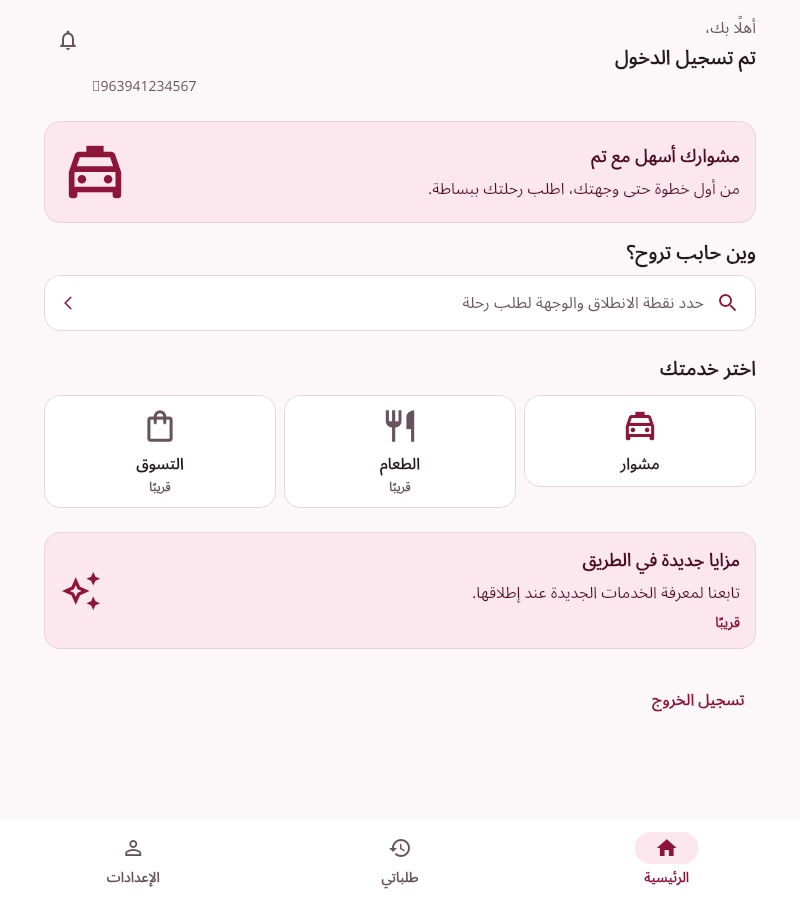
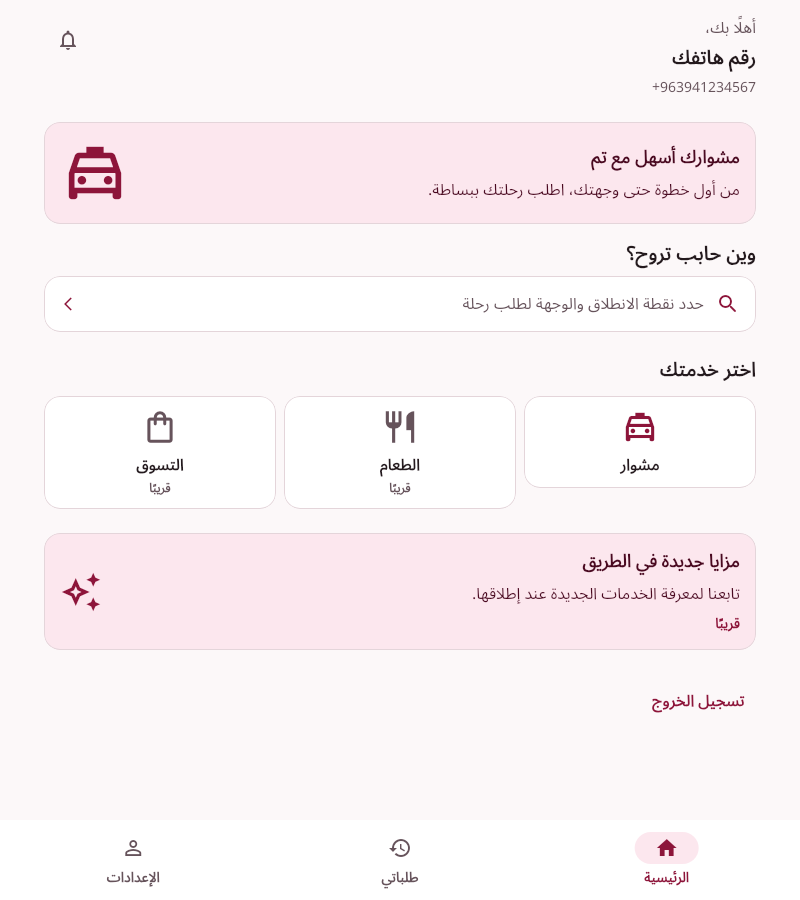
fix(home): address contract, lifecycle and RTL review findings [skip ci]

diff --git a/apps/customer/test/features/home/home_entry_integration_test.dart b/apps/customer/test/features/home/home_entry_integration_test.dart
@@ -1,0 +1,70 @@
+import 'package:flutter/material.dart';
+import 'package:flutter_bloc/flutter_bloc.dart';
+import 'package:flutter_test/flutter_test.dart';
+import 'package:go_router/go_router.dart';
+import 'package:tam_customer/app/app.dart';
+import 'package:tam_customer/app/router/app_routes.dart';
+import 'package:tam_customer/features/auth/data/memory_auth_session_store.dart';
+import 'package:tam_customer/features/auth/presentation/bloc/auth_cubit.dart';
+import 'package:tam_customer/features/auth/presentation/pages/phone_auth_page.dart';
+import 'package:tam_customer/features/home/presentation/pages/home_page.dart';
+
+import '../../support/fake_auth_repository.dart';
+
+void main() {
+  testWidgets(
+    'real Home entry opens registered routes and retains local Auth',
+    (tester) async {
+      final store = MemoryAuthSessionStore();
+      await tester.pumpWidget(
+        TamApp(
+          authRepository: FakeAuthRepository(latency: Duration.zero),
+          sessionStore: store,
+          temporaryPhoneEntryEnabled: true,
+        ),
+      );
+      await tester.pumpAndSettle();
+      await tester.enterText(find.byKey(const Key('auth-phone')), '0941234567');
+      await tester.tap(find.text('متابعة'));
+      await tester.pumpAndSettle();
+      final home = tester.element(find.byType(HomePage));
+      final auth = home.read<AuthCubit>();
+      final router = GoRouter.of(home);
+      expect(auth.state.status, AuthStatus.localAccess);
+      expect(auth.state.user, isNull);
+      expect(await store.read(), isNull);
+
+      final destinations = [
+        (find.byKey(const Key('home-notifications')), AppRoutes.notifications),
+        (
+          find.text('حدد نقطة الانطلاق والوجهة لطلب رحلة'),
+          AppRoutes.rideRequest,
+        ),
+        (find.text('طلباتي'), AppRoutes.trips),
+        (find.text('الإعدادات'), AppRoutes.settings),
+      ];
+      for (final (target, path) in destinations) {
+        await tester.ensureVisible(target);
+        await tester.tap(target);
+        await tester.pumpAndSettle();
+        expect(
+          router.routerDelegate.currentConfiguration.last.matchedLocation,
+          path,
+        );
+        expect(tester.takeException(), isNull);
+        router.pop();
+        await tester.pumpAndSettle();
+        expect(router.routeInformationProvider.value.uri.path, AppRoutes.home);
+        expect(find.byType(HomePage), findsOneWidget);
+        expect(auth.state.status, AuthStatus.localAccess);
+      }
+      await tester.ensureVisible(find.text('تسجيل الخروج'));
+      await tester.tap(find.text('تسجيل الخروج'));
+      await tester.pumpAndSettle();
+      expect(find.byType(PhoneAuthPage), findsOneWidget);
+      expect(auth.state.status, AuthStatus.signedOut);
+      expect(await store.read(), isNull);
+      await tester.pumpWidget(const SizedBox.shrink());
+    },
+  );
+}

diff --git a/apps/customer/test/features/home/home_repository_test.dart b/apps/customer/test/features/home/home_repository_test.dart
@@ -1,3 +1,4 @@
+import 'dart:async';
 import 'dart:convert';
 import 'dart:io';
 
@@ -107,6 +108,52 @@ void main() {
     );
   });
 
+  for (final kind in ['promotion', 'service']) {
+    test('nullable action is still required for a disabled $kind', () {
+      final value =
+          jsonDecode(jsonEncode(homeSuccessFixture)) as Map<String, dynamic>;
+      final data = value['data'] as Map<String, dynamic>;
+      final items =
+          data[kind == 'promotion' ? 'promotions' : 'services']
+              as List<dynamic>;
+      (items[1] as Map<String, dynamic>).remove('action');
+      expect(
+        () => HomeContentMapper.fromEnvelope(value),
+        throwsFormatException,
+      );
+    });
+  }
+
+  test('decoder rejects more than the contracted five promotions', () {
+    final value =
+        jsonDecode(jsonEncode(homeSuccessFixture)) as Map<String, dynamic>;
+    final data = value['data'] as Map<String, dynamic>;
+    final template =
+        (data['promotions'] as List<dynamic>)[0] as Map<String, dynamic>;
+    data['promotions'] = List.generate(
+      6,
+      (index) => {...template, 'id': 'promo-$index'},
+    );
+    expect(() => HomeContentMapper.fromEnvelope(value), throwsFormatException);
+  });
+
+  test('closed cubit ignores a stale load callback', () async {
+    final cubit = HomeCubit(const MockHomeRepository(latency: Duration.zero));
+    await cubit.close();
+    await expectLater(cubit.load(), completes);
+  });
+
+  test('overlapping retries do not issue duplicate loads', () async {
+    final repo = _DeferredRepository();
+    final cubit = HomeCubit(repo);
+    final first = cubit.load();
+    final second = cubit.load();
+    repo.result.complete(HomeContentMapper.fromEnvelope(homeSuccessFixture));
+    await Future.wait([first, second]);
+    await cubit.close();
+    expect(repo.calls, 1);
+  });
+
   test('cubit supports loading, empty, error and manual retry', () async {
     final repo = _RetryRepository();
     final cubit = HomeCubit(repo);
@@ -127,6 +174,16 @@ void main() {
     await subscription.cancel();
     await cubit.close();
   });
+}
+
+final class _DeferredRepository implements HomeRepository {
+  final result = Completer<HomeContent>();
+  int calls = 0;
+  @override
+  Future<HomeContent> load() {
+    calls++;
+    return result.future;
+  }
 }
 
 final class _RetryRepository implements HomeRepository {

diff --git a/apps/customer/test/features/home/home_visual_test.dart b/apps/customer/test/features/home/home_visual_test.dart
@@ -18,11 +18,17 @@ ThemeData _captureTheme() {
   final base = AppTheme.light;
   final scheme = base.colorScheme;
   return base.copyWith(
-    textTheme: base.textTheme.apply(fontFamily: 'GoldenReadable'),
+    textTheme: base.textTheme.apply(
+      fontFamily: 'GoldenReadable',
+      fontFamilyFallback: const ['GoldenLatin'],
+    ),
     textButtonTheme: TextButtonThemeData(
       style: base.textButtonTheme.style?.copyWith(
         textStyle: WidgetStatePropertyAll(
-          base.textTheme.labelLarge?.copyWith(fontFamily: 'GoldenReadable'),
+          base.textTheme.labelLarge?.copyWith(
+            fontFamily: 'GoldenReadable',
+            fontFamilyFallback: const ['GoldenLatin'],
+          ),
         ),
       ),
     ),
@@ -30,6 +36,7 @@ ThemeData _captureTheme() {
       labelTextStyle: WidgetStateProperty.resolveWith(
         (states) => base.textTheme.labelMedium?.copyWith(
           fontFamily: 'GoldenReadable',
+          fontFamilyFallback: const ['GoldenLatin'],
           color: states.contains(WidgetState.selected)
               ? scheme.primary
               : scheme.onSurfaceVariant,
@@ -53,7 +60,11 @@ void main() {
           '/home/hazem/development/flutter/bin/cache/artifacts/material_fonts/MaterialIcons-Regular.otf',
         ),
       );
-    await Future.wait([font.load(), icons.load()]);
+    final latin = FontLoader('GoldenLatin')
+      ..addFont(
+        _loadFont('/usr/share/fonts/truetype/noto/NotoSans-Regular.ttf'),
+      );
+    await Future.wait([font.load(), latin.load(), icons.load()]);
   });
 
   for (final config in [
@@ -75,6 +86,7 @@ void main() {
           tester,
           repository: const MockHomeRepository(latency: Duration.zero),
           navigation: RecordingHomeNavigation(),
+          authenticated: false,
           language: config.locale,
           renderTheme: capture ? _captureTheme() : null,
         );

diff --git a/apps/customer/lib/features/home/data/home_content_mapper.dart b/apps/customer/lib/features/home/data/home_content_mapper.dart
@@ -15,7 +15,7 @@ abstract final class HomeContentMapper {
         title: _text(v['title']),
         subtitle: _text(v['subtitle']),
         enabled: _bool(v['enabled']),
-        action: _action(v['action']),
+        action: _requiredAction(v),
       );
     }).toList();
     final services = _array(data['services']).map((item) {
@@ -28,10 +28,11 @@ abstract final class HomeContentMapper {
           _ => throw const FormatException('Unknown service'),
         },
         available: _bool(v['available']),
-        action: _action(v['action']),
+        action: _requiredAction(v),
       );
     }).toList();
-    if (promos.map((e) => e.id).toSet().length != promos.length ||
+    if (promos.length > 5 ||
+        promos.map((e) => e.id).toSet().length != promos.length ||
         services.map((e) => e.id).toSet().length != services.length ||
         promos.any((e) => e.enabled != (e.action != null)) ||
         services.any((e) => e.available != (e.action != null)) ||
@@ -75,4 +76,11 @@ abstract final class HomeContentMapper {
     'ride_request' => HomeAction.rideRequest,
     _ => throw const FormatException('Invalid action'),
   };
+
+  static HomeAction? _requiredAction(Map<String, dynamic> value) {
+    if (!value.containsKey('action')) {
+      throw const FormatException('Missing required action');
+    }
+    return _action(value['action']);
+  }
 }

diff --git a/apps/customer/lib/features/home/presentation/widgets/home_header.dart b/apps/customer/lib/features/home/presentation/widgets/home_header.dart
@@ -45,15 +45,13 @@ class HomeHeader extends StatelessWidget {
               ),
               if (phoneE164 != null) ...[
                 const SizedBox(height: AppSpacing.xs),
-                Directionality(
-                  textDirection: TextDirection.ltr,
-                  child: Align(
-                    alignment: AlignmentDirectional.centerStart,
-                    child: Text(
-                      phoneE164!,
-                      style: text.bodySmall?.copyWith(
-                        color: scheme.onSurfaceVariant,
-                      ),
+                Align(
+                  alignment: AlignmentDirectional.centerStart,
+                  child: Text(
+                    phoneE164!,
+                    textDirection: TextDirection.ltr,
+                    style: text.bodySmall?.copyWith(
+                      color: scheme.onSurfaceVariant,
                     ),
                   ),
                 ),

diff --git a/apps/customer/test/features/home/home_page_test.dart b/apps/customer/test/features/home/home_page_test.dart
@@ -7,6 +7,22 @@ import 'package:tam_customer/features/home/presentation/pages/home_page.dart';
 import 'home_test_support.dart';
 
 void main() {
+  testWidgets(
+    'Arabic phone aligns with the greeting while its text stays LTR',
+    (tester) async {
+      await pumpHome(
+        tester,
+        repository: const MockHomeRepository(latency: Duration.zero),
+        navigation: RecordingHomeNavigation(),
+      );
+      final phone = find.text('+963941234567');
+      expect(
+        tester.getTopRight(phone).dx,
+        closeTo(tester.getTopRight(find.text('تم تسجيل الدخول')).dx, 0.01),
+      );
+      expect(tester.widget<Text>(phone).textDirection, TextDirection.ltr);
+    },
+  );
   testWidgets('Arabic Home shows sections and uses only navigation callbacks', (
     tester,
   ) async {

diff --git a/apps/customer/lib/features/home/presentation/bloc/home_cubit.dart b/apps/customer/lib/features/home/presentation/bloc/home_cubit.dart
@@ -18,8 +18,11 @@ final class HomeState {
 final class HomeCubit extends Cubit<HomeState> {
   HomeCubit(this._repository) : super(const HomeState.initial());
   final HomeRepository _repository;
+  bool _loading = false;
 
   Future<void> load() async {
+    if (isClosed || _loading) return;
+    _loading = true;
     emit(const HomeState(status: HomeLoadStatus.loading));
     try {
       final value = await _repository.load();
@@ -44,6 +47,8 @@ final class HomeCubit extends Cubit<HomeState> {
           ),
         );
       }
+    } finally {
+      _loading = false;
     }
   }
 }
